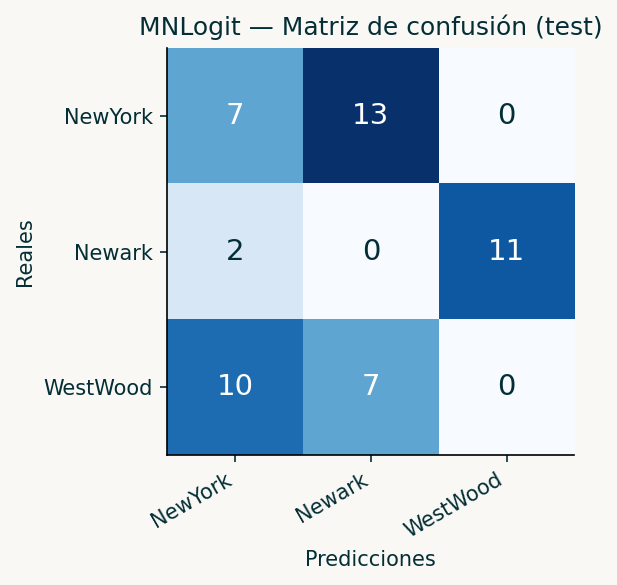
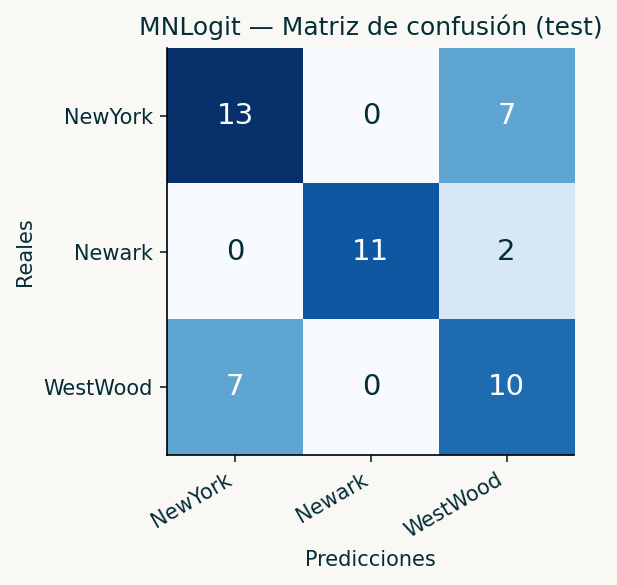
Fix errors in presentations

diff --git a/classes/C02.4.presentation/gen_images.py b/classes/C02.4.presentation/gen_images.py
@@ -212,14 +212,8 @@ mn_classes = mn_fitted.model.endog_names if hasattr(mn_fitted.model, 'endog_name
 mn_class_order = mn_fitted.model.wendog.columns.tolist() if hasattr(mn_fitted.model.wendog, 'columns') else None
 
 # predict: argmax over columns
-mn_pred_idx = np.argmax(mn_pred_probs.values, axis=1)
-# get the class labels the model used
-try:
-    class_labels = mn_fitted.model.endog_names
-except:
-    class_labels = sorted(c_data["lugar"].unique())
-
-mn_pred_labels = [class_labels[i] for i in mn_pred_idx]
+mn_pred_idx    = np.argmax(mn_pred_probs.values, axis=1)
+mn_pred_labels = [mn_pred_probs.columns[i] for i in mn_pred_idx]
 cont2 = st.contingency.crosstab(c_test["lugar"], mn_pred_labels)
 
 fig, ax = plt.subplots(figsize=(5, 4), facecolor=BG)
